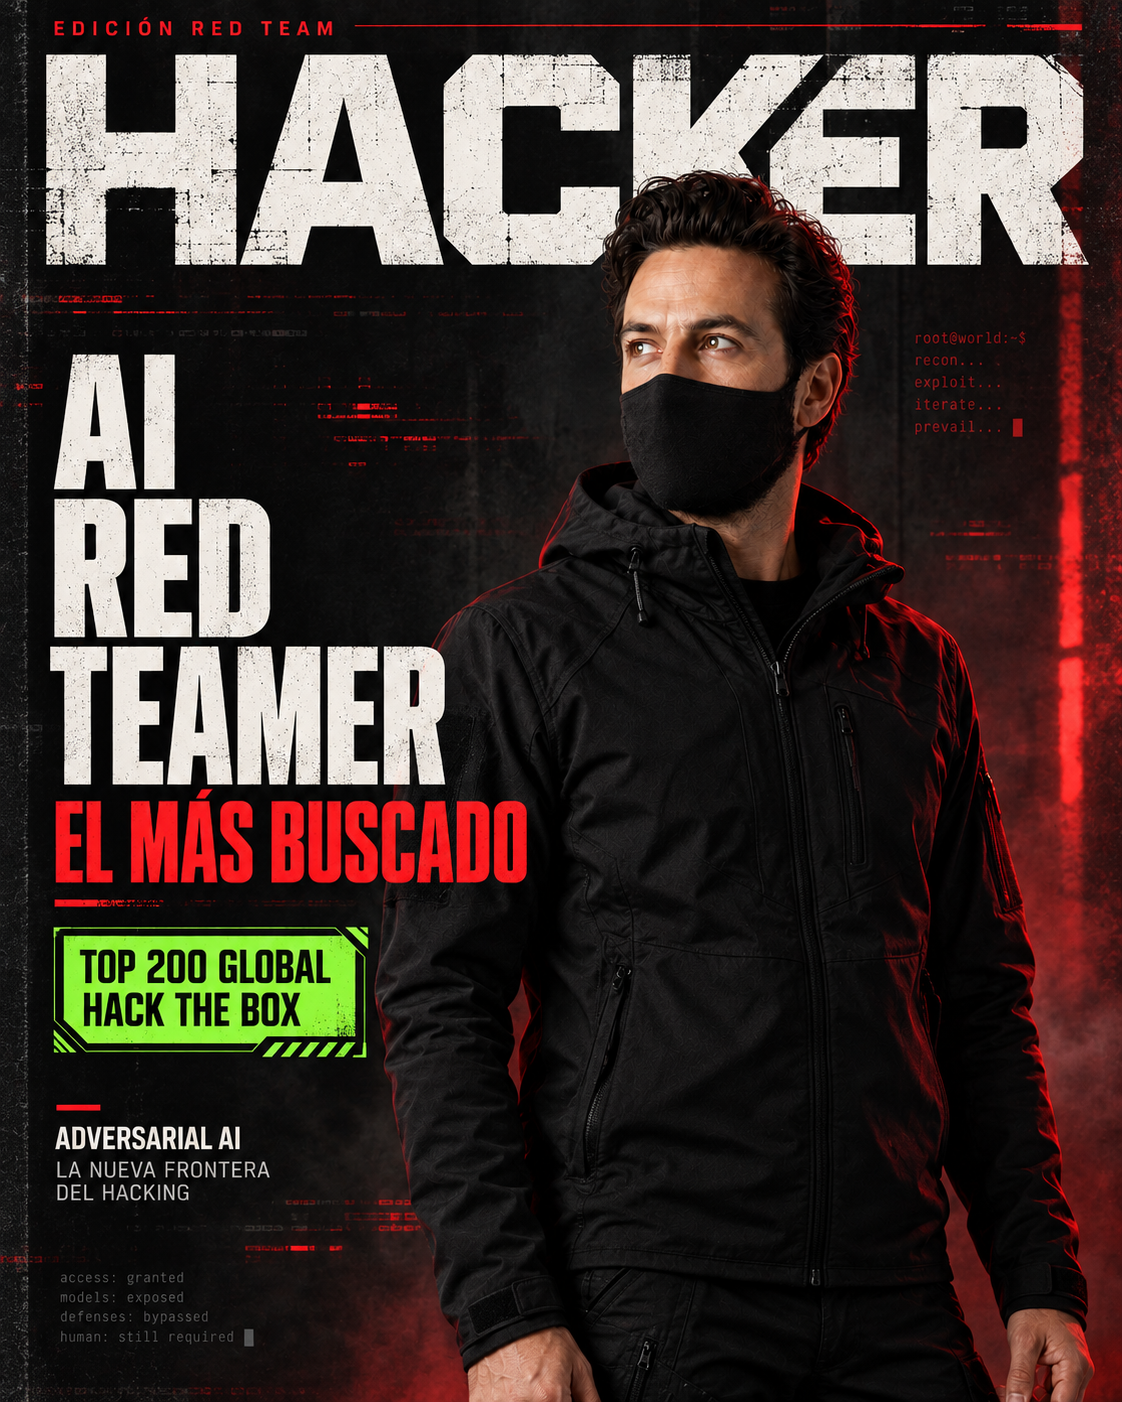
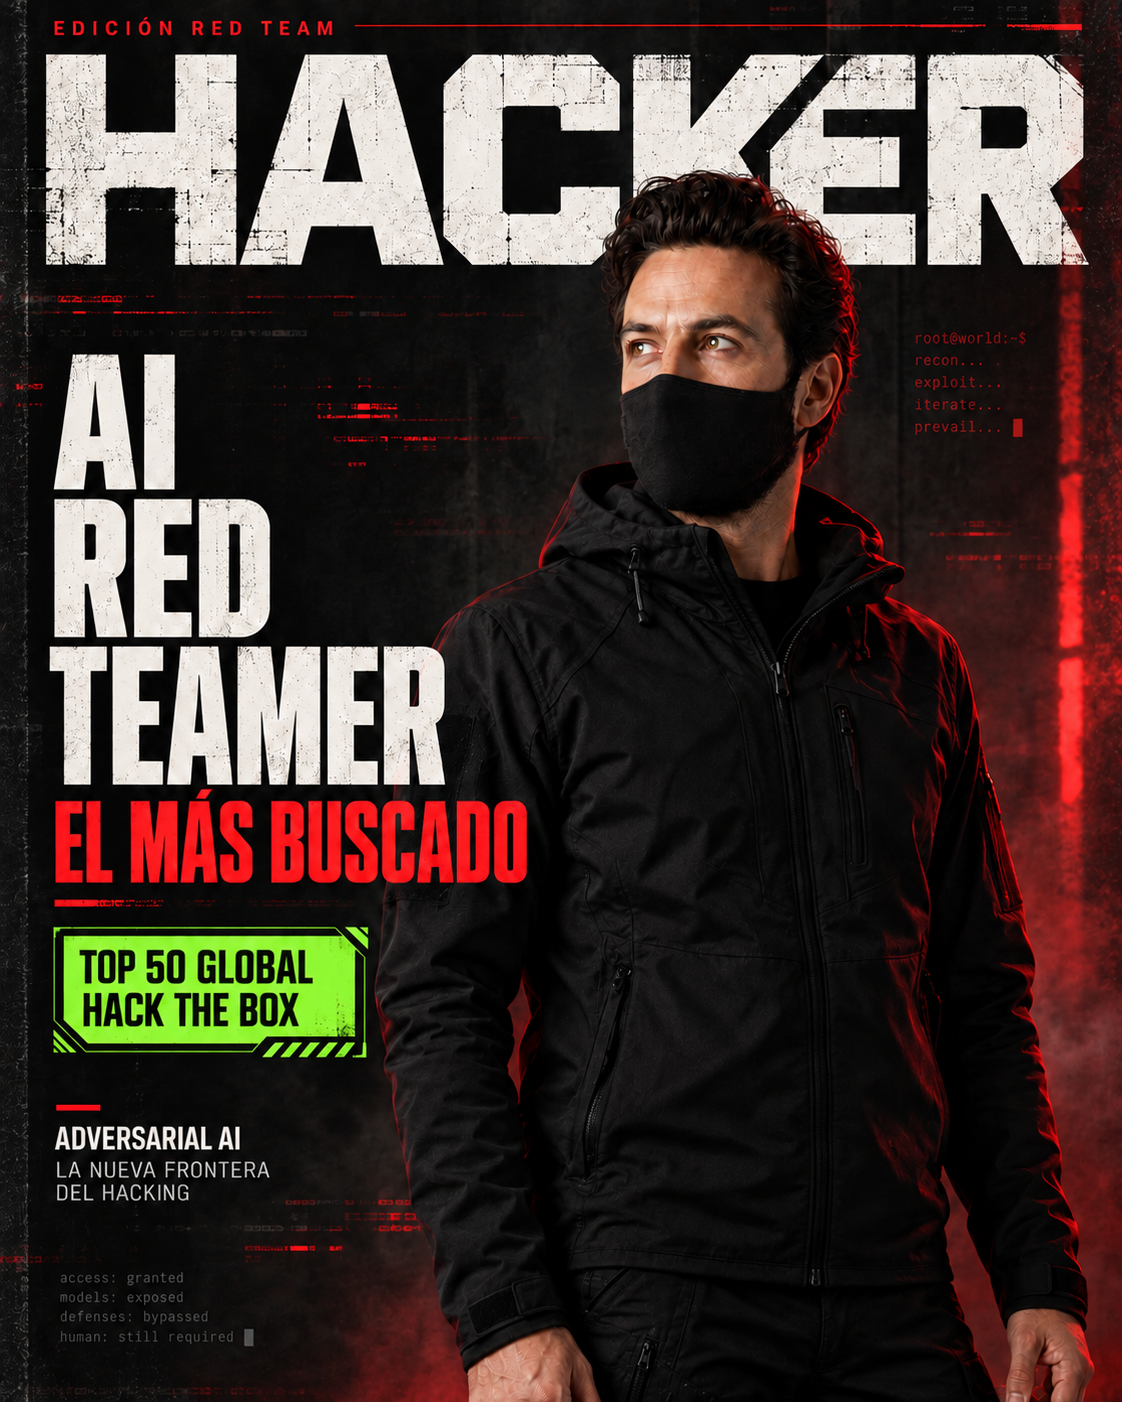
feat: update HTB Top 50 award and red team cover

diff --git a/src/lib/portfolio-chat.ts b/src/lib/portfolio-chat.ts
@@ -33,7 +33,7 @@ Use only these public facts:
 - ${COAE_CERTIFICATION_NAME}: completed. Public credential ID (separate value): ${COAE_CREDENTIAL_ID}. Generic validator (the only verified validation URL): ${COAE_VERIFICATION_URL}. No individual credential URL is published in this portfolio; use the generic validator exactly as written and the credential ID separately.
 - AWS Certified Generative AI Developer – Professional: completed.
 - AWS Certified Security – Specialty: completed.
-- Hack The Box L4tentNoise earned the Global Top 100 badge on 30 Sep 2026. Official badge: https://labs.hackthebox.com/achievement/badge/preview/2822044/21.png
+- Hack The Box L4tentNoise earned the Global Top 50 badge on 02 Oct 2026. Official badge: https://labs.hackthebox.com/achievement/badge/2822044/20
 - Hack The Box public profile: https://app.hackthebox.com/users/2822044
 - Medium @infantesromeroadrian. Public profile: https://medium.com/@infantesromeroadrian
 

diff --git a/README.md b/README.md
@@ -30,7 +30,7 @@ retícula editorial: tres columnas en escritorio y tablet, y una en móvil
 estrecho. COAE publica su identificador y un enlace seguro a la página de
 verificación de Hack The Box; las certificaciones no publican fechas.
 
-Awards continúa con el alias L4tentNoise, el titular Hack The Box Global Top 100,
+Awards continúa con el alias L4tentNoise, el titular Hack The Box Global Top 50,
 una copia local del badge enlazada al reconocimiento oficial y un enlace secundario
 al perfil. Ambos destinos abren en una pestaña nueva y conservan el foco visible.
 
